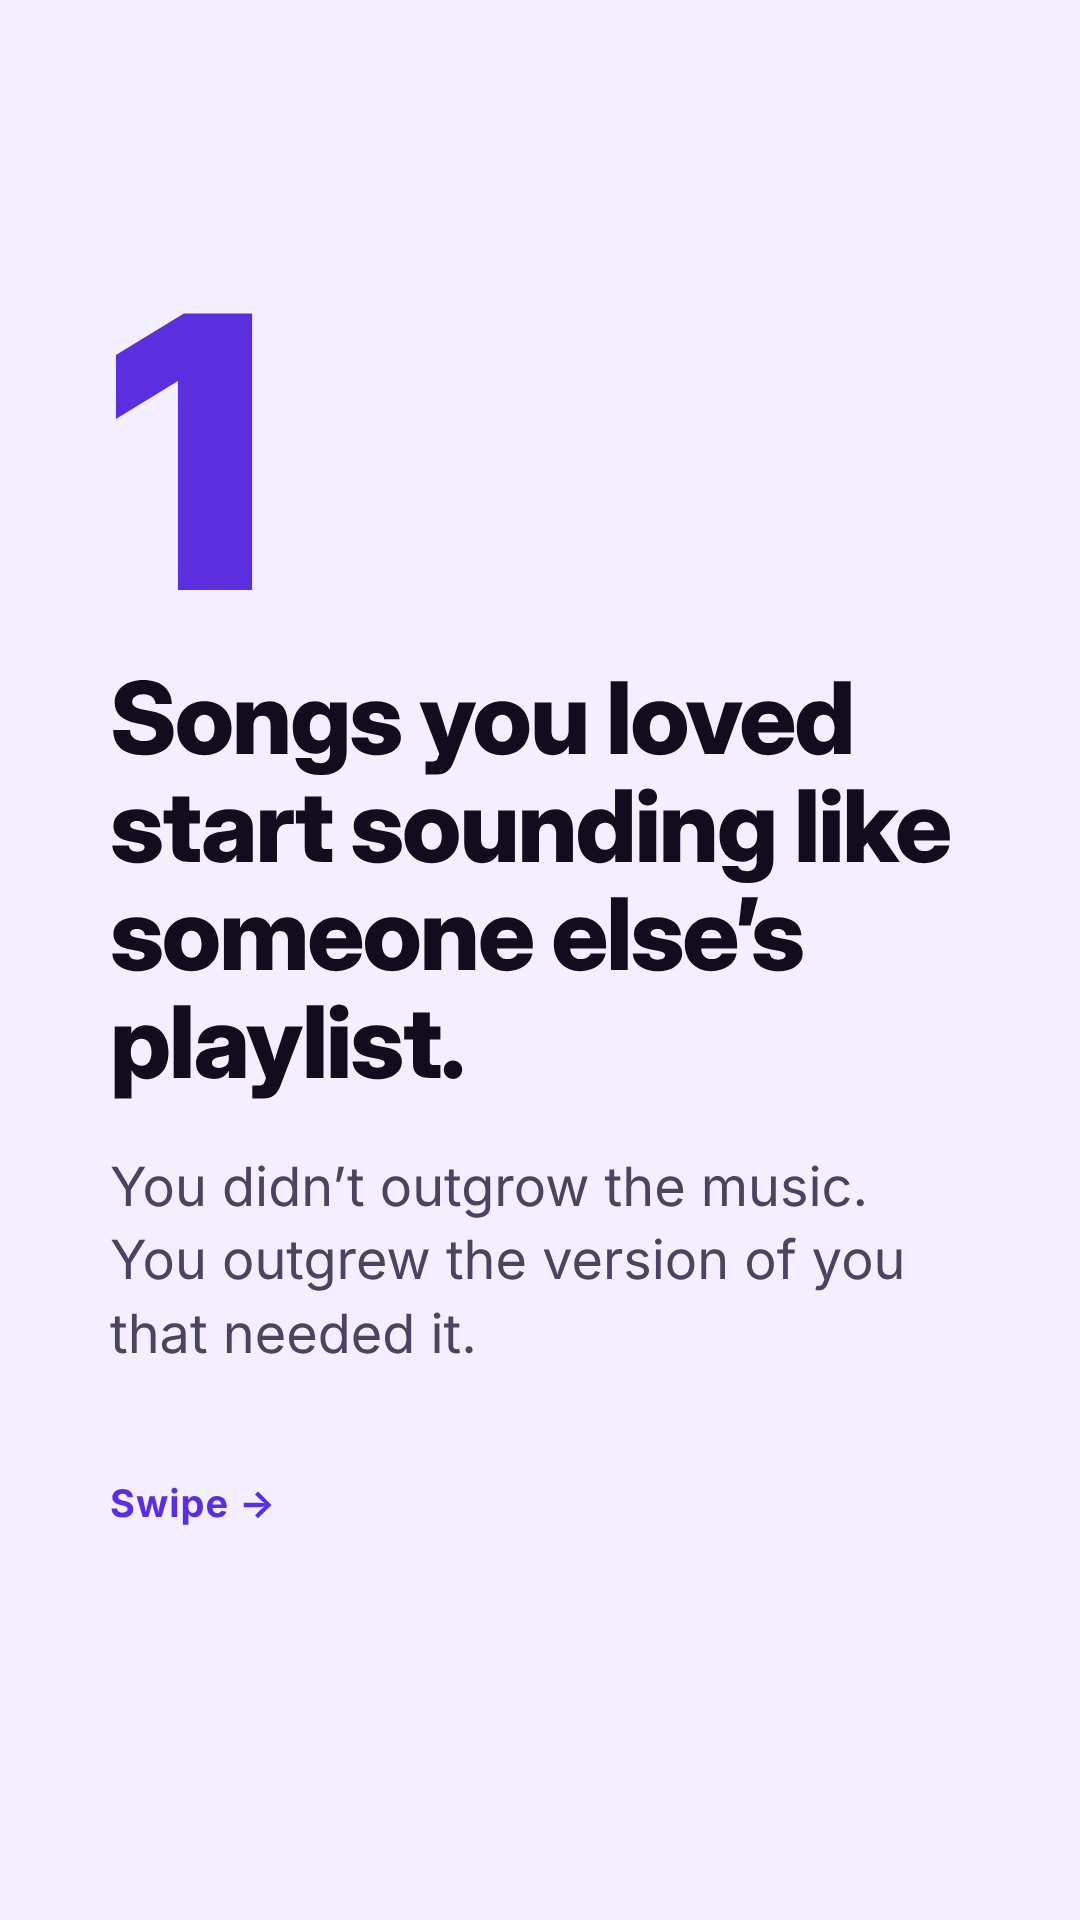
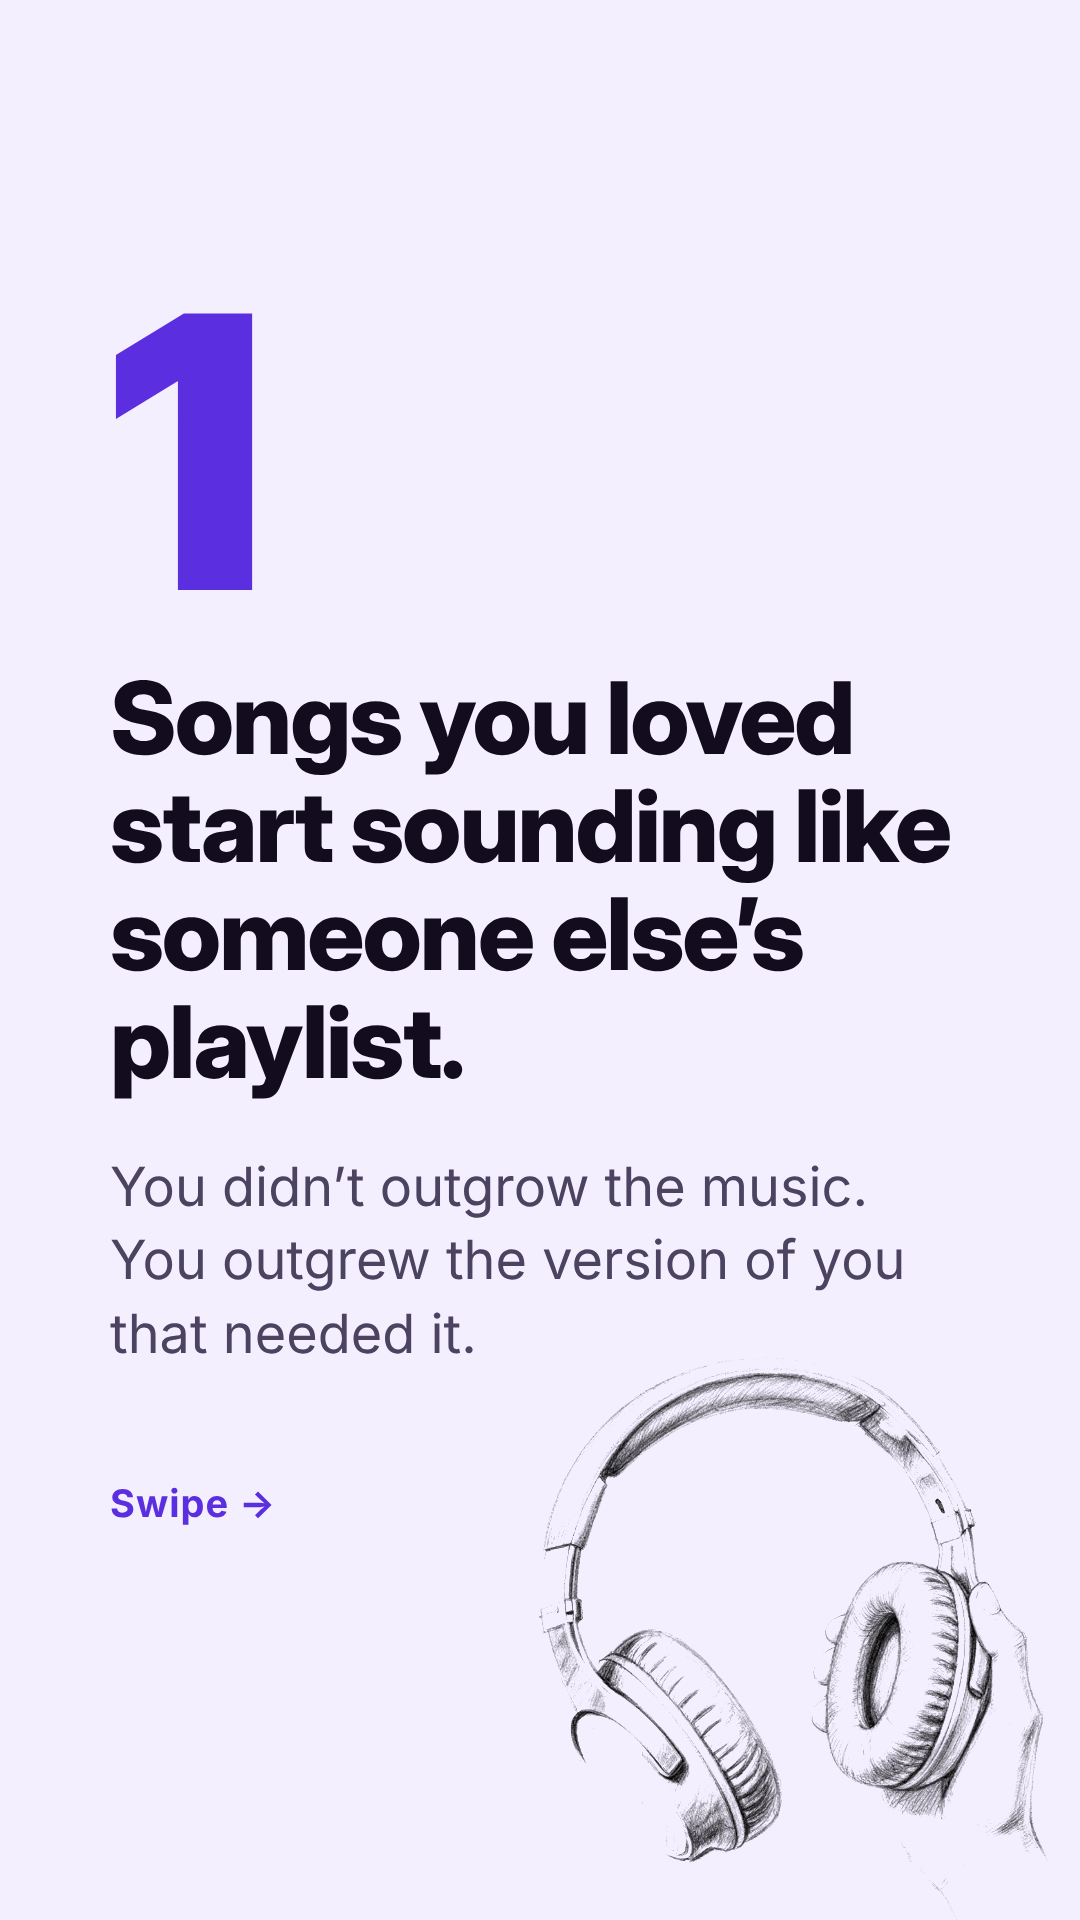
Add graphite pencil sketches to the autopilot-signs carousel
sketches.js places one sketch per slide in the largest empty area
around the text, measured line by line, and blends it into the slide
colour behind the text without touching the text itself. The first
eight sketches are in carousels/sketches (originals in src/).

Claude-Session: https://claude.ai/code/session_01Xz3nLLejvih59vnMNJjPSy

Changed region(s): [[0.55, 0.6875, 0.9472, 0.9688], [0.4889, 0.7812, 0.7333, 0.9688], [0.9167, 0.875, 0.9778, 0.9688]]

diff --git a/carousels/sketches.js b/carousels/sketches.js
@@ -1,0 +1,82 @@
+// Adds a graphite pencil sketch to each slide that names one (<section data-sketch="...">).
+// The text is never moved or restyled. The script measures every line of text on the slide,
+// finds the largest empty square (allowing a little bleed off the right and bottom edges),
+// avoids the strip TikTok covers with its caption, and puts the sketch there, behind the
+// text (z-index -1 inside an isolated slide), blended into the slide colour.
+(function () {
+  const css = `
+    section[data-sketch] { isolation: isolate }
+    .sketch { position: absolute; z-index: -1; pointer-events: none;
+      mix-blend-mode: multiply; filter: grayscale(1) contrast(1.5) brightness(1.12);
+      -webkit-mask-image: linear-gradient(90deg, transparent, #000 5%, #000 95%, transparent), linear-gradient(transparent, #000 5%, #000 95%, transparent);
+      -webkit-mask-composite: source-in; mask-composite: intersect }
+    .dark .sketch { mix-blend-mode: screen; filter: grayscale(1) contrast(1.5) brightness(1.12) invert(1); opacity: .9 }
+    .end .sketch, .violet .sketch { opacity: .8 }`
+  const st = document.createElement('style'); st.textContent = css; document.head.appendChild(st)
+
+  const W = 1080, H = 1920, C = 10                // grid cell in px
+  const PAD = 26                                  // clear space kept around every line of text
+  const BLEED_R = 120, BLEED_B = 260              // how far a sketch may run off the right / bottom edge
+  const TOP = 170                                 // keep clear of TikTok's top tabs
+  const CAPTION_Y = 1560                          // below this, TikTok's caption covers the left side
+  const MAX = 900, CAP_PENALTY = .3
+
+  function textRects(sec) {
+    const out = [], r0 = sec.getBoundingClientRect()
+    const walker = document.createTreeWalker(sec, NodeFilter.SHOW_TEXT)
+    while (walker.nextNode()) {
+      const n = walker.currentNode
+      if (!n.textContent.trim() || n.parentElement.closest('.sketch, .qmark')) continue
+      const rg = document.createRange(); rg.selectNodeContents(n)
+      for (const r of rg.getClientRects()) out.push({ x0: r.left - r0.left, y0: r.top - r0.top, x1: r.right - r0.left, y1: r.bottom - r0.top })
+    }
+    for (const el of sec.querySelectorAll('.pill')) {           // pill backgrounds count as text
+      const r = el.getBoundingClientRect(); out.push({ x0: r.left - r0.left, y0: r.top - r0.top, x1: r.right - r0.left, y1: r.bottom - r0.top })
+    }
+    return out
+  }
+
+  function place(sec) {
+    const cols = Math.ceil((W + BLEED_R) / C), rows = Math.ceil((H + BLEED_B) / C)
+    const busy = new Uint8Array(cols * rows)
+    for (let r = 0; r < rows; r++) for (let c = 0; c < cols; c++) if (r * C < TOP) busy[r * cols + c] = 1
+    for (const t of textRects(sec)) {
+      const c0 = Math.max(0, Math.floor((t.x0 - PAD) / C)), c1 = Math.min(cols - 1, Math.ceil((t.x1 + PAD) / C))
+      const r0 = Math.max(0, Math.floor((t.y0 - PAD) / C)), r1 = Math.min(rows - 1, Math.ceil((t.y1 + PAD) / C))
+      for (let r = r0; r <= r1; r++) for (let c = c0; c <= c1; c++) busy[r * cols + c] = 1
+    }
+    // prefix sums of busy cells, so any rectangle can be tested in O(1)
+    const P = new Uint32Array((cols + 1) * (rows + 1)), pw = cols + 1
+    for (let r = 0; r < rows; r++) for (let c = 0; c < cols; c++)
+      P[(r + 1) * pw + c + 1] = busy[r * cols + c] + P[r * pw + c + 1] + P[(r + 1) * pw + c] - P[r * pw + c]
+    const free = (c0, r0, cw, rh) => P[(r0 + rh) * pw + c0 + cw] - P[r0 * pw + c0 + cw] - P[(r0 + rh) * pw + c0] + P[r0 * pw + c0] === 0
+    const img = sec.querySelector(':scope > img.sketch'), aspect = img.naturalWidth / img.naturalHeight
+    let best = null
+    for (let hC = Math.floor(Math.min(MAX / aspect, MAX) / C); hC >= 22; hC -= 2) {
+      const wC = Math.round(hC * aspect)
+      if (wC > cols || hC > rows) continue
+      for (let r = 0; r + hC <= rows; r += 2) for (let c = 0; c + wC <= cols; c += 2) {
+        if (!free(c, r, wC, hC)) continue
+        const x = c * C, y = r * C, w = wC * C, h = hC * C
+        const vx = Math.max(0, Math.min(x + w, W) - Math.max(x, 0)), vy = Math.max(0, Math.min(y + h, H) - Math.max(y, 0))
+        let seen = vx * vy
+        const capTop = Math.max(y, CAPTION_Y), capBot = Math.min(y + h, H)
+        if (capBot > capTop) seen -= CAP_PENALTY * vx * (capBot - capTop)
+        if (y + h > H) seen -= .5 * (y + h - H) * vx        // cropped off the bottom
+        if (x + w > W) seen -= .5 * (x + w - W) * vy        // cropped off the right
+        if (!best || seen > best.seen) best = { x, y, w, h, seen }
+      }
+      if (best && best.h > hC * C * 1.6) break             // much smaller sizes can't win any more
+    }
+    if (!best) return
+    Object.assign(img.style, { left: best.x + 'px', top: best.y + 'px', width: best.w + 'px', height: best.h + 'px' })
+  }
+
+  const secs = [...document.querySelectorAll('section[data-sketch]')]
+  const loads = secs.map(sec => {
+    const img = new Image(); img.className = 'sketch'; img.alt = ''
+    img.src = sec.dataset.sketch; sec.prepend(img)
+    return img.decode().catch(() => {})
+  })
+  window.__placed = Promise.all([document.fonts.ready, ...loads]).then(() => secs.forEach(place))
+})()

diff --git a/carousels/2026-11-23-autopilot-signs/slides.html b/carousels/2026-11-23-autopilot-signs/slides.html
@@ -26,14 +26,14 @@
 </style></head><body>
 
 <!-- 1 cover -->
-<section class="s" id="s1">
+<section class="s" id="s1" data-sketch="../sketches/autopilot-01.png">
   <div class="tag">Inner Compass 🧭</div>
   <h1>6 strange things that happen when you stop living on <span class="mark">autopilot</span></h1>
   <div class="cover-sub">Nobody warns you about #5 →</div>
 </section>
 
 <!-- 2 -->
-<section class="s" id="s2">
+<section class="s" id="s2" data-sketch="../sketches/autopilot-02.png">
   <div class="num">1</div>
   <h2>Songs you loved start sounding like someone else’s playlist.</h2>
   <p>You didn’t outgrow the music. You outgrew the version of you that needed it.</p>
@@ -41,7 +41,7 @@
 </section>
 
 <!-- 3 -->
-<section class="s" id="s3">
+<section class="s" id="s3" data-sketch="../sketches/autopilot-03.png">
   <div class="num">2</div>
   <h2>You can’t remember why you wanted the life you’re working for.</h2>
   <p>The goal is still on the list. The reason quietly left.</p>
@@ -49,7 +49,7 @@
 </section>
 
 <!-- 4 -->
-<section class="s" id="s4">
+<section class="s" id="s4" data-sketch="../sketches/autopilot-04.png">
   <div class="num">3</div>
   <h2>People start saying “you’ve changed” like it’s an accusation.</h2>
   <p>Usually it means you stopped playing the part they wrote for you.</p>
@@ -57,7 +57,7 @@
 </section>
 
 <!-- 5 -->
-<section class="s" id="s5">
+<section class="s" id="s5" data-sketch="../sketches/autopilot-05.png">
   <div class="num">4</div>
   <h2>You hear yourself repeat an opinion and realise it was never yours.</h2>
   <p>A parent’s. A teacher’s. An ex’s. It just sounds strange in your own mouth now.</p>
@@ -65,7 +65,7 @@
 </section>
 
 <!-- 6: the one nobody warns you about, inverted -->
-<section class="s dark" id="s6" style="padding-top:260px">
+<section class="s dark" id="s6" data-sketch="../sketches/autopilot-06.png" style="padding-top:260px">
   <div class="tag">The one nobody warns you about</div>
   <div class="num">5</div>
   <h2 style="font-size:92px">You get lonely. Not because people left. Because you can’t pretend anymore.</h2>
@@ -73,7 +73,7 @@
 </section>
 
 <!-- 7 -->
-<section class="s" id="s7">
+<section class="s" id="s7" data-sketch="../sketches/autopilot-07.png">
   <div class="num">6</div>
   <h2>You start picking the quiet drive home over the podcast.</h2>
   <p>It’s not boredom. For the first time in years, your own head is somewhere you want to be.</p>
@@ -81,7 +81,7 @@
 </section>
 
 <!-- 8 end -->
-<section class="s violet" id="s8">
+<section class="s violet" id="s8" data-sketch="../sketches/autopilot-08.png">
   <div class="tag">Your turn</div>
   <div class="big">Which number was you?</div>
   <p style="font-size:64px;margin-top:90px;font-weight:600;color:#fff">Drop it in the comments.</p>
@@ -89,4 +89,5 @@
   <p style="margin-top:120px;font-weight:700;color:#fff">Follow @atheic for the parts nobody posts. 🧭</p>
 </section>
 
+<script src="../sketches.js"></script>
 </body></html>
